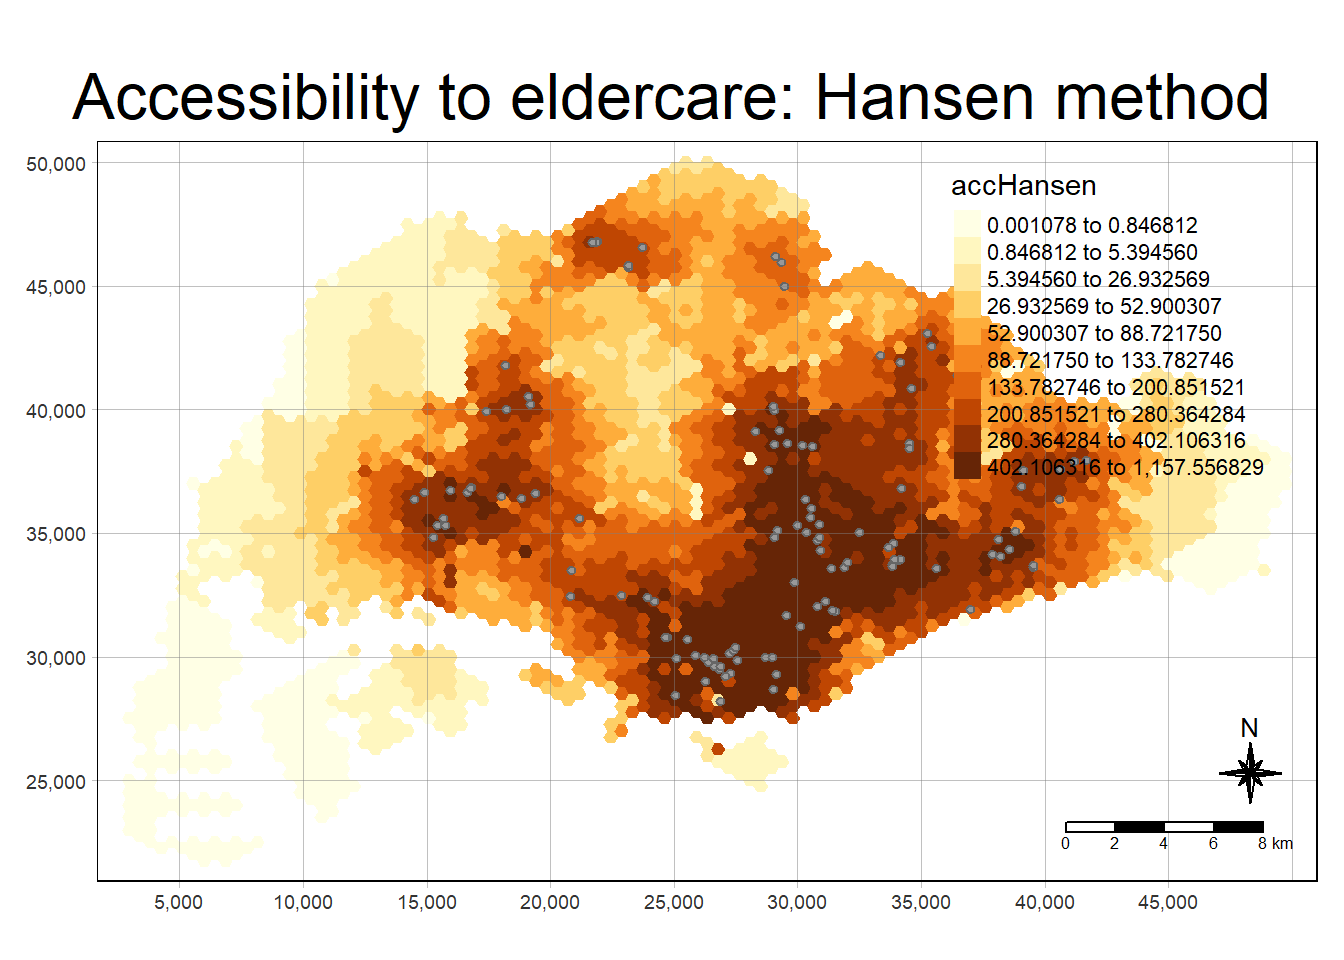
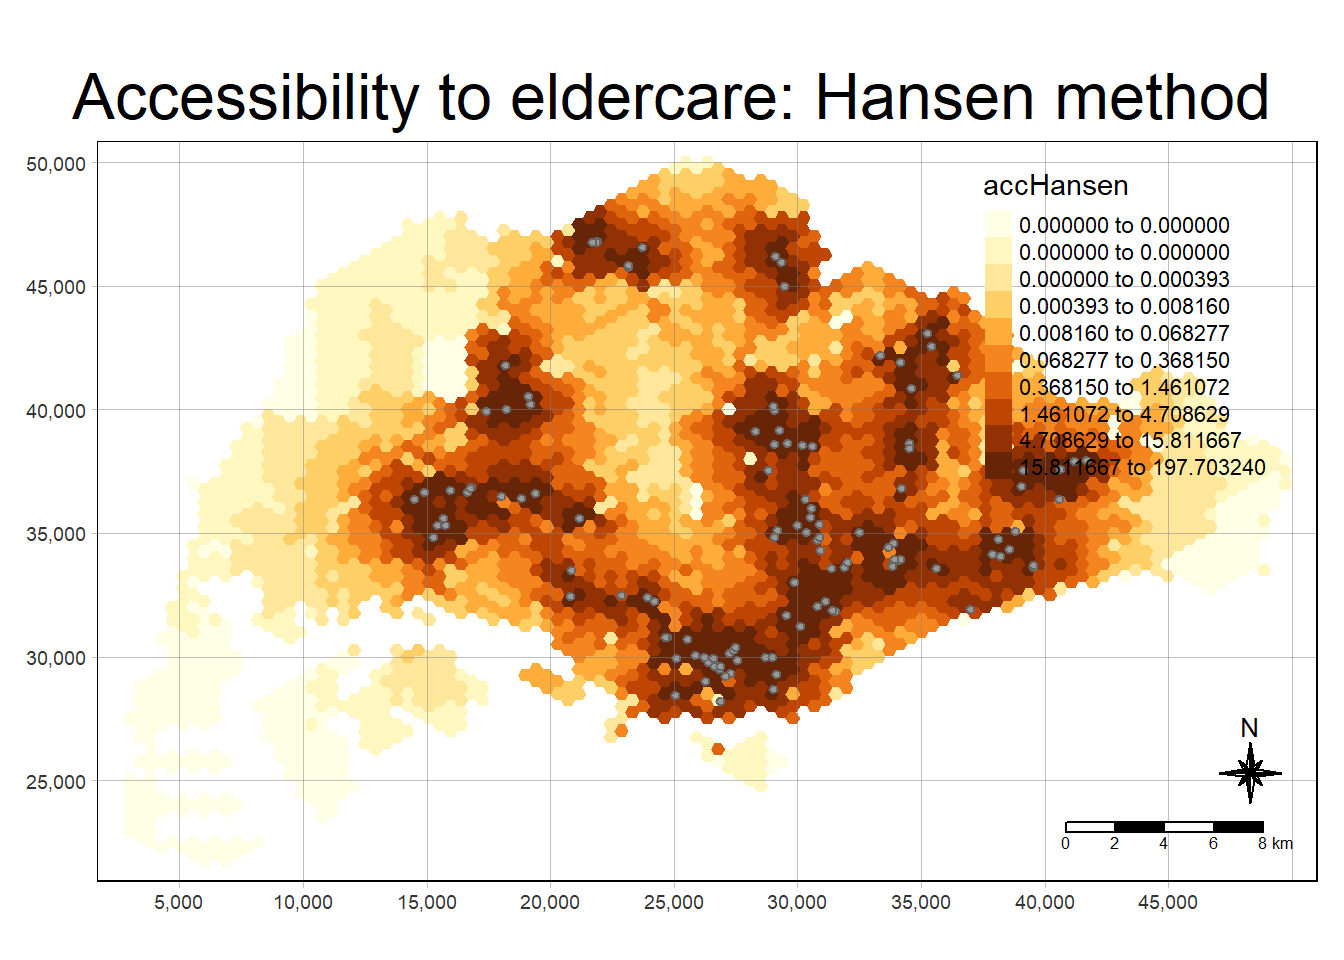
Commit to update Hands_on Ex 9

diff --git a/_site/Hands-on_Ex/Hands_on_Ex09/Hands-on_Ex9.html b/_site/Hands-on_Ex/Hands_on_Ex09/Hands-on_Ex9.html
@@ -561,7 +561,7 @@ PROJCRS["SVY21 / Singapore TM",
 <div class="sourceCode cell-code" id="cb16"><pre class="sourceCode r code-with-copy"><code class="sourceCode r"><span id="cb16-1"><a href="#cb16-1" aria-hidden="true" tabindex="-1"></a>acc_Hansen <span class="ot">&lt;-</span> <span class="fu">data.frame</span>(<span class="fu">ac</span>(hexagons<span class="sc">$</span>demand,</span>
 <span id="cb16-2"><a href="#cb16-2" aria-hidden="true" tabindex="-1"></a>                            eldercare<span class="sc">$</span>capacity,</span>
 <span id="cb16-3"><a href="#cb16-3" aria-hidden="true" tabindex="-1"></a>                            distmat_km, </span>
-<span id="cb16-4"><a href="#cb16-4" aria-hidden="true" tabindex="-1"></a>                            <span class="co">#d0 = 50,</span></span>
+<span id="cb16-4"><a href="#cb16-4" aria-hidden="true" tabindex="-1"></a>                            <span class="at">d0 =</span> <span class="dv">50</span>,</span>
 <span id="cb16-5"><a href="#cb16-5" aria-hidden="true" tabindex="-1"></a>                            <span class="at">power =</span> <span class="dv">2</span>, </span>
 <span id="cb16-6"><a href="#cb16-6" aria-hidden="true" tabindex="-1"></a>                            <span class="at">family =</span> <span class="st">"Hansen"</span>))</span></code><button title="Copy to Clipboard" class="code-copy-button"><i class="bi"></i></button></pre></div>
 </div>
@@ -573,7 +573,8 @@ PROJCRS["SVY21 / Singapore TM",
 <p><img src="images/clipboard-294853529.png" class="img-fluid"></p>
 <p>Next, we will convert the data table into tibble format by using the code chunk below.</p>
 <div class="cell">
-<div class="sourceCode cell-code" id="cb18"><pre class="sourceCode r code-with-copy"><code class="sourceCode r"><span id="cb18-1"><a href="#cb18-1" aria-hidden="true" tabindex="-1"></a>acc_Hansen <span class="ot">&lt;-</span> <span class="fu">tbl_df</span>(acc_Hansen)</span></code><button title="Copy to Clipboard" class="code-copy-button"><i class="bi"></i></button></pre></div>
+<div class="sourceCode cell-code" id="cb18"><pre class="sourceCode r code-with-copy"><code class="sourceCode r"><span id="cb18-1"><a href="#cb18-1" aria-hidden="true" tabindex="-1"></a><span class="co"># acc_Hansen &lt;- tbl_df(acc_Hansen)</span></span>
+<span id="cb18-2"><a href="#cb18-2" aria-hidden="true" tabindex="-1"></a>acc_Hansen <span class="ot">&lt;-</span> tibble<span class="sc">::</span><span class="fu">as_tibble</span>(acc_Hansen)</span></code><button title="Copy to Clipboard" class="code-copy-button"><i class="bi"></i></button></pre></div>
 </div>
 <p>Lastly,&nbsp;<em>bind_cols()</em>&nbsp;of dplyr will be used to join the acc_Hansen tibble data frame with the hexagons simple feature data frame. The output is called&nbsp;<code>hexagon_Hansen</code>.</p>
 <div class="cell">
@@ -591,8 +592,10 @@ PROJCRS["SVY21 / Singapore TM",
 <span id="cb20-6"><a href="#cb20-6" aria-hidden="true" tabindex="-1"></a>                            <span class="at">family =</span> <span class="st">"Hansen"</span>))</span>
 <span id="cb20-7"><a href="#cb20-7" aria-hidden="true" tabindex="-1"></a></span>
 <span id="cb20-8"><a href="#cb20-8" aria-hidden="true" tabindex="-1"></a><span class="fu">colnames</span>(acc_Hansen) <span class="ot">&lt;-</span> <span class="st">"accHansen"</span></span>
-<span id="cb20-9"><a href="#cb20-9" aria-hidden="true" tabindex="-1"></a>acc_Hansen <span class="ot">&lt;-</span> <span class="fu">tbl_df</span>(acc_Hansen)</span>
-<span id="cb20-10"><a href="#cb20-10" aria-hidden="true" tabindex="-1"></a>hexagon_Hansen <span class="ot">&lt;-</span> <span class="fu">bind_cols</span>(hexagons, acc_Hansen)</span></code><button title="Copy to Clipboard" class="code-copy-button"><i class="bi"></i></button></pre></div>
+<span id="cb20-9"><a href="#cb20-9" aria-hidden="true" tabindex="-1"></a><span class="co"># acc_Hansen &lt;- tbl_df(acc_Hansen)</span></span>
+<span id="cb20-10"><a href="#cb20-10" aria-hidden="true" tabindex="-1"></a>acc_Hansen <span class="ot">&lt;-</span> tibble<span class="sc">::</span><span class="fu">as_tibble</span>(acc_Hansen)</span>
+<span id="cb20-11"><a href="#cb20-11" aria-hidden="true" tabindex="-1"></a></span>
+<span id="cb20-12"><a href="#cb20-12" aria-hidden="true" tabindex="-1"></a>hexagon_Hansen <span class="ot">&lt;-</span> <span class="fu">bind_cols</span>(hexagons, acc_Hansen)</span></code><button title="Copy to Clipboard" class="code-copy-button"><i class="bi"></i></button></pre></div>
 </div>
 </section>
 <section id="visualising-hansens-accessibility" class="level2">
@@ -682,10 +685,11 @@ The code chunk below calculates Hansen’s accessibility using&nbsp;<em>ac()</em
 <span id="cb25-8"><a href="#cb25-8" aria-hidden="true" tabindex="-1"></a></span>
 <span id="cb25-9"><a href="#cb25-9" aria-hidden="true" tabindex="-1"></a><span class="co"># Rename column and convert to tibble</span></span>
 <span id="cb25-10"><a href="#cb25-10" aria-hidden="true" tabindex="-1"></a><span class="fu">colnames</span>(acc_KD2SFCA) <span class="ot">&lt;-</span> <span class="st">"accKD2SFCA"</span></span>
-<span id="cb25-11"><a href="#cb25-11" aria-hidden="true" tabindex="-1"></a>acc_KD2SFCA <span class="ot">&lt;-</span> tibble<span class="sc">::</span><span class="fu">as_tibble</span>(acc_KD2SFCA)</span>
-<span id="cb25-12"><a href="#cb25-12" aria-hidden="true" tabindex="-1"></a></span>
-<span id="cb25-13"><a href="#cb25-13" aria-hidden="true" tabindex="-1"></a><span class="co"># Bind columns to create hexagon_KD2SFCA</span></span>
-<span id="cb25-14"><a href="#cb25-14" aria-hidden="true" tabindex="-1"></a>hexagon_KD2SFCA <span class="ot">&lt;-</span> <span class="fu">bind_cols</span>(hexagons, acc_KD2SFCA)</span></code><button title="Copy to Clipboard" class="code-copy-button"><i class="bi"></i></button></pre></div>
+<span id="cb25-11"><a href="#cb25-11" aria-hidden="true" tabindex="-1"></a><span class="co">#acc_KD2SFCA &lt;- tbl_df(acc_KD2SFCA)</span></span>
+<span id="cb25-12"><a href="#cb25-12" aria-hidden="true" tabindex="-1"></a>acc_KD2SFCA <span class="ot">&lt;-</span> tibble<span class="sc">::</span><span class="fu">as_tibble</span>(acc_KD2SFCA)</span>
+<span id="cb25-13"><a href="#cb25-13" aria-hidden="true" tabindex="-1"></a></span>
+<span id="cb25-14"><a href="#cb25-14" aria-hidden="true" tabindex="-1"></a><span class="co"># Bind columns to create hexagon_KD2SFCA</span></span>
+<span id="cb25-15"><a href="#cb25-15" aria-hidden="true" tabindex="-1"></a>hexagon_KD2SFCA <span class="ot">&lt;-</span> <span class="fu">bind_cols</span>(hexagons, acc_KD2SFCA)</span></code><button title="Copy to Clipboard" class="code-copy-button"><i class="bi"></i></button></pre></div>
 </div>
 <p>The code chunk below uses a collection of mapping fucntions of tmap package to create a high cartographic quality accessibility to eldercare centre in Singapore. Notice that&nbsp;<code>mapex</code>&nbsp;is reused for&nbsp;<em>bbox</em>&nbsp;argument.</p>
 <div class="cell">
@@ -753,19 +757,23 @@ The code chunk below calculates Hansen’s accessibility using&nbsp;<em>ac()</em
 <section id="computing-sam-accessibility" class="level2">
 <h2 class="anchored" data-anchor-id="computing-sam-accessibility">8.1 Computing SAM accessibility</h2>
 <p>In this section, you are going to repeat most of the steps you had learned in previous section to perform the analysis. However, some of the codes will be combined into one code chunk.</p>
-<p><br>
-The code chunk below calculates Hansen’s accessibility using&nbsp;<em>ac()</em>&nbsp;of&nbsp;<strong>SpatialAcc</strong>&nbsp;and&nbsp;<em>data.frame()</em>&nbsp;is used to save the output in a data frame called&nbsp;<code>acc_SAM</code>. Notice that&nbsp;<code>SAM</code>&nbsp;is used for family argument.</p>
+<p>The code chunk below calculates Hansen’s accessibility using&nbsp;<em>ac()</em>&nbsp;of&nbsp;<strong>SpatialAcc</strong>&nbsp;and&nbsp;<em>data.frame()</em>&nbsp;is used to save the output in a data frame called&nbsp;<code>acc_SAM</code>. Notice that&nbsp;<code>SAM</code>&nbsp;is used for family argument.</p>
 <div class="cell">
-<div class="sourceCode cell-code" id="cb29"><pre class="sourceCode r code-with-copy"><code class="sourceCode r"><span id="cb29-1"><a href="#cb29-1" aria-hidden="true" tabindex="-1"></a>acc_SAM <span class="ot">&lt;-</span> <span class="fu">data.frame</span>(<span class="fu">ac</span>(hexagons<span class="sc">$</span>demand,</span>
-<span id="cb29-2"><a href="#cb29-2" aria-hidden="true" tabindex="-1"></a>                         eldercare<span class="sc">$</span>capacity,</span>
-<span id="cb29-3"><a href="#cb29-3" aria-hidden="true" tabindex="-1"></a>                         distmat_km, </span>
-<span id="cb29-4"><a href="#cb29-4" aria-hidden="true" tabindex="-1"></a>                         <span class="at">d0 =</span> <span class="dv">50</span>,</span>
-<span id="cb29-5"><a href="#cb29-5" aria-hidden="true" tabindex="-1"></a>                         <span class="at">power =</span> <span class="dv">2</span>, </span>
-<span id="cb29-6"><a href="#cb29-6" aria-hidden="true" tabindex="-1"></a>                         <span class="at">family =</span> <span class="st">"SAM"</span>))</span>
-<span id="cb29-7"><a href="#cb29-7" aria-hidden="true" tabindex="-1"></a></span>
-<span id="cb29-8"><a href="#cb29-8" aria-hidden="true" tabindex="-1"></a><span class="fu">colnames</span>(acc_SAM) <span class="ot">&lt;-</span> <span class="st">"accSAM"</span></span>
-<span id="cb29-9"><a href="#cb29-9" aria-hidden="true" tabindex="-1"></a>acc_SAM <span class="ot">&lt;-</span> <span class="fu">tbl_df</span>(acc_SAM)</span>
-<span id="cb29-10"><a href="#cb29-10" aria-hidden="true" tabindex="-1"></a>hexagon_SAM <span class="ot">&lt;-</span> <span class="fu">bind_cols</span>(hexagons, acc_SAM)</span></code><button title="Copy to Clipboard" class="code-copy-button"><i class="bi"></i></button></pre></div>
+<div class="sourceCode cell-code" id="cb29"><pre class="sourceCode r code-with-copy"><code class="sourceCode r"><span id="cb29-1"><a href="#cb29-1" aria-hidden="true" tabindex="-1"></a><span class="co"># Calculate accessibility score and store in a data frame</span></span>
+<span id="cb29-2"><a href="#cb29-2" aria-hidden="true" tabindex="-1"></a>acc_SAM <span class="ot">&lt;-</span> <span class="fu">data.frame</span>(<span class="fu">ac</span>(hexagons<span class="sc">$</span>demand,</span>
+<span id="cb29-3"><a href="#cb29-3" aria-hidden="true" tabindex="-1"></a>                         eldercare<span class="sc">$</span>capacity,</span>
+<span id="cb29-4"><a href="#cb29-4" aria-hidden="true" tabindex="-1"></a>                         distmat_km, </span>
+<span id="cb29-5"><a href="#cb29-5" aria-hidden="true" tabindex="-1"></a>                         <span class="at">d0 =</span> <span class="dv">50</span>,</span>
+<span id="cb29-6"><a href="#cb29-6" aria-hidden="true" tabindex="-1"></a>                         <span class="at">power =</span> <span class="dv">2</span>, </span>
+<span id="cb29-7"><a href="#cb29-7" aria-hidden="true" tabindex="-1"></a>                         <span class="at">family =</span> <span class="st">"SAM"</span>))</span>
+<span id="cb29-8"><a href="#cb29-8" aria-hidden="true" tabindex="-1"></a></span>
+<span id="cb29-9"><a href="#cb29-9" aria-hidden="true" tabindex="-1"></a><span class="co"># Rename column and convert to tibble</span></span>
+<span id="cb29-10"><a href="#cb29-10" aria-hidden="true" tabindex="-1"></a><span class="fu">colnames</span>(acc_SAM) <span class="ot">&lt;-</span> <span class="st">"accSAM"</span></span>
+<span id="cb29-11"><a href="#cb29-11" aria-hidden="true" tabindex="-1"></a><span class="co">#acc_SAM &lt;- tbl_df(acc_SAM)</span></span>
+<span id="cb29-12"><a href="#cb29-12" aria-hidden="true" tabindex="-1"></a>acc_SAM <span class="ot">&lt;-</span> tibble<span class="sc">::</span><span class="fu">as_tibble</span>(acc_SAM)</span>
+<span id="cb29-13"><a href="#cb29-13" aria-hidden="true" tabindex="-1"></a></span>
+<span id="cb29-14"><a href="#cb29-14" aria-hidden="true" tabindex="-1"></a><span class="co"># Bind columns to create hexagon_SAM</span></span>
+<span id="cb29-15"><a href="#cb29-15" aria-hidden="true" tabindex="-1"></a>hexagon_SAM <span class="ot">&lt;-</span> <span class="fu">bind_cols</span>(hexagons, acc_SAM)</span></code><button title="Copy to Clipboard" class="code-copy-button"><i class="bi"></i></button></pre></div>
 </div>
 </section>
 <section id="visualising-sams-accessibility" class="level2">
@@ -817,10 +825,10 @@ The code chunk below calculates Hansen’s accessibility using&nbsp;<em>ac()</em
 <span id="cb32-2"><a href="#cb32-2" aria-hidden="true" tabindex="-1"></a>       <span class="fu">aes</span>(<span class="at">y =</span> accSAM, </span>
 <span id="cb32-3"><a href="#cb32-3" aria-hidden="true" tabindex="-1"></a>           <span class="at">x=</span> REGION_N)) <span class="sc">+</span></span>
 <span id="cb32-4"><a href="#cb32-4" aria-hidden="true" tabindex="-1"></a>  <span class="fu">geom_boxplot</span>() <span class="sc">+</span></span>
-<span id="cb32-5"><a href="#cb32-5" aria-hidden="true" tabindex="-1"></a>  <span class="fu">geom_point</span>(<span class="at">stat=</span><span class="st">"summary"</span>, </span>
-<span id="cb32-6"><a href="#cb32-6" aria-hidden="true" tabindex="-1"></a>             <span class="at">fun.y=</span><span class="st">"mean"</span>, </span>
-<span id="cb32-7"><a href="#cb32-7" aria-hidden="true" tabindex="-1"></a>             <span class="at">colour =</span><span class="st">"red"</span>, </span>
-<span id="cb32-8"><a href="#cb32-8" aria-hidden="true" tabindex="-1"></a>             <span class="at">size=</span><span class="dv">2</span>)</span></code><button title="Copy to Clipboard" class="code-copy-button"><i class="bi"></i></button></pre></div>
+<span id="cb32-5"><a href="#cb32-5" aria-hidden="true" tabindex="-1"></a>  <span class="fu">stat_summary</span>(<span class="at">fun =</span> <span class="st">"mean"</span>, </span>
+<span id="cb32-6"><a href="#cb32-6" aria-hidden="true" tabindex="-1"></a>               <span class="at">geom =</span> <span class="st">"point"</span>, </span>
+<span id="cb32-7"><a href="#cb32-7" aria-hidden="true" tabindex="-1"></a>               <span class="at">colour =</span> <span class="st">"red"</span>, </span>
+<span id="cb32-8"><a href="#cb32-8" aria-hidden="true" tabindex="-1"></a>               <span class="at">size =</span> <span class="dv">2</span>)</span></code><button title="Copy to Clipboard" class="code-copy-button"><i class="bi"></i></button></pre></div>
 <div class="cell-output-display">
 <div>
 <figure class="figure">
@@ -828,6 +836,10 @@ The code chunk below calculates Hansen’s accessibility using&nbsp;<em>ac()</em
 </figure>
 </div>
 </div>
+<div class="sourceCode cell-code" id="cb33"><pre class="sourceCode r code-with-copy"><code class="sourceCode r"><span id="cb33-1"><a href="#cb33-1" aria-hidden="true" tabindex="-1"></a>  <span class="co">#geom_point(stat="summary", </span></span>
+<span id="cb33-2"><a href="#cb33-2" aria-hidden="true" tabindex="-1"></a>             <span class="co">#fun.y="mean", </span></span>
+<span id="cb33-3"><a href="#cb33-3" aria-hidden="true" tabindex="-1"></a>             <span class="co">#colour ="red", </span></span>
+<span id="cb33-4"><a href="#cb33-4" aria-hidden="true" tabindex="-1"></a>             <span class="co">#size=2)</span></span></code><button title="Copy to Clipboard" class="code-copy-button"><i class="bi"></i></button></pre></div>
 </div>
 
 
